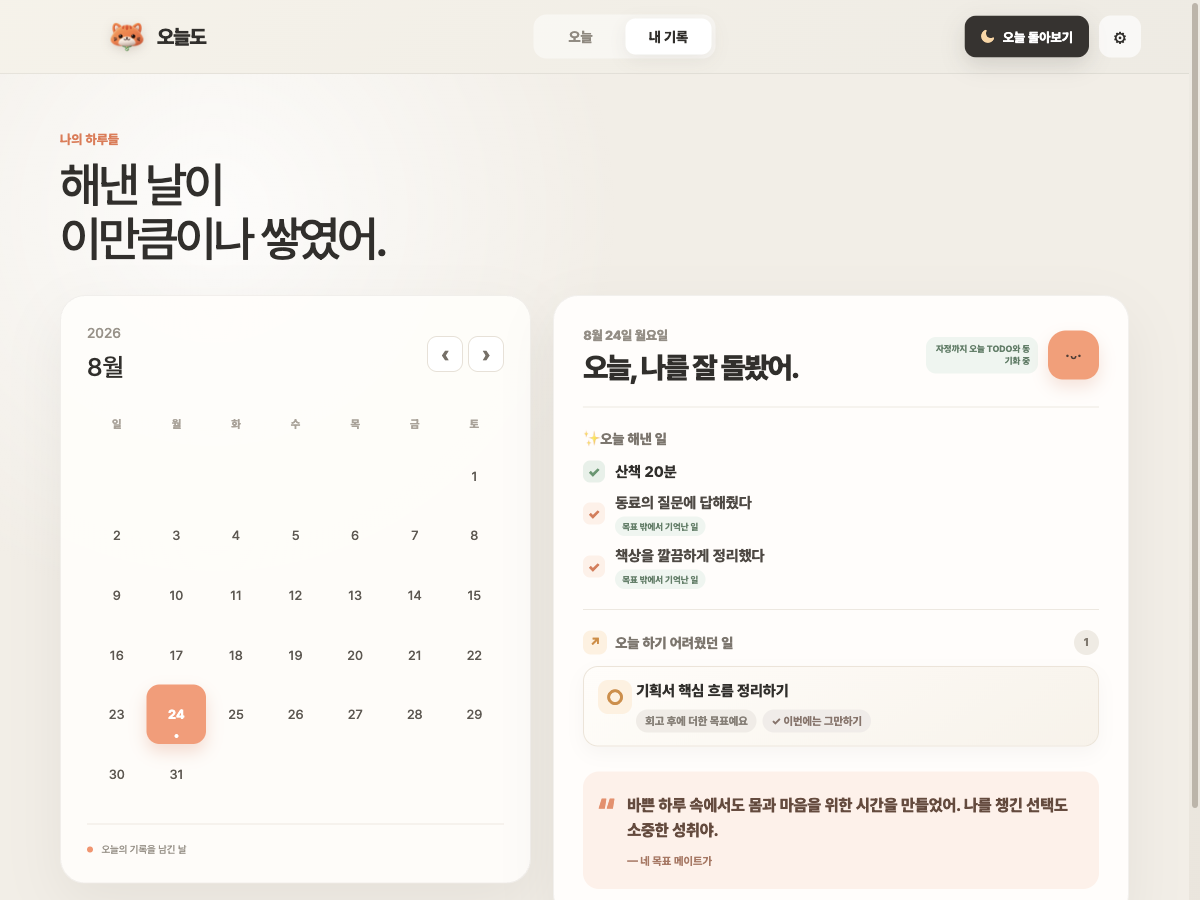
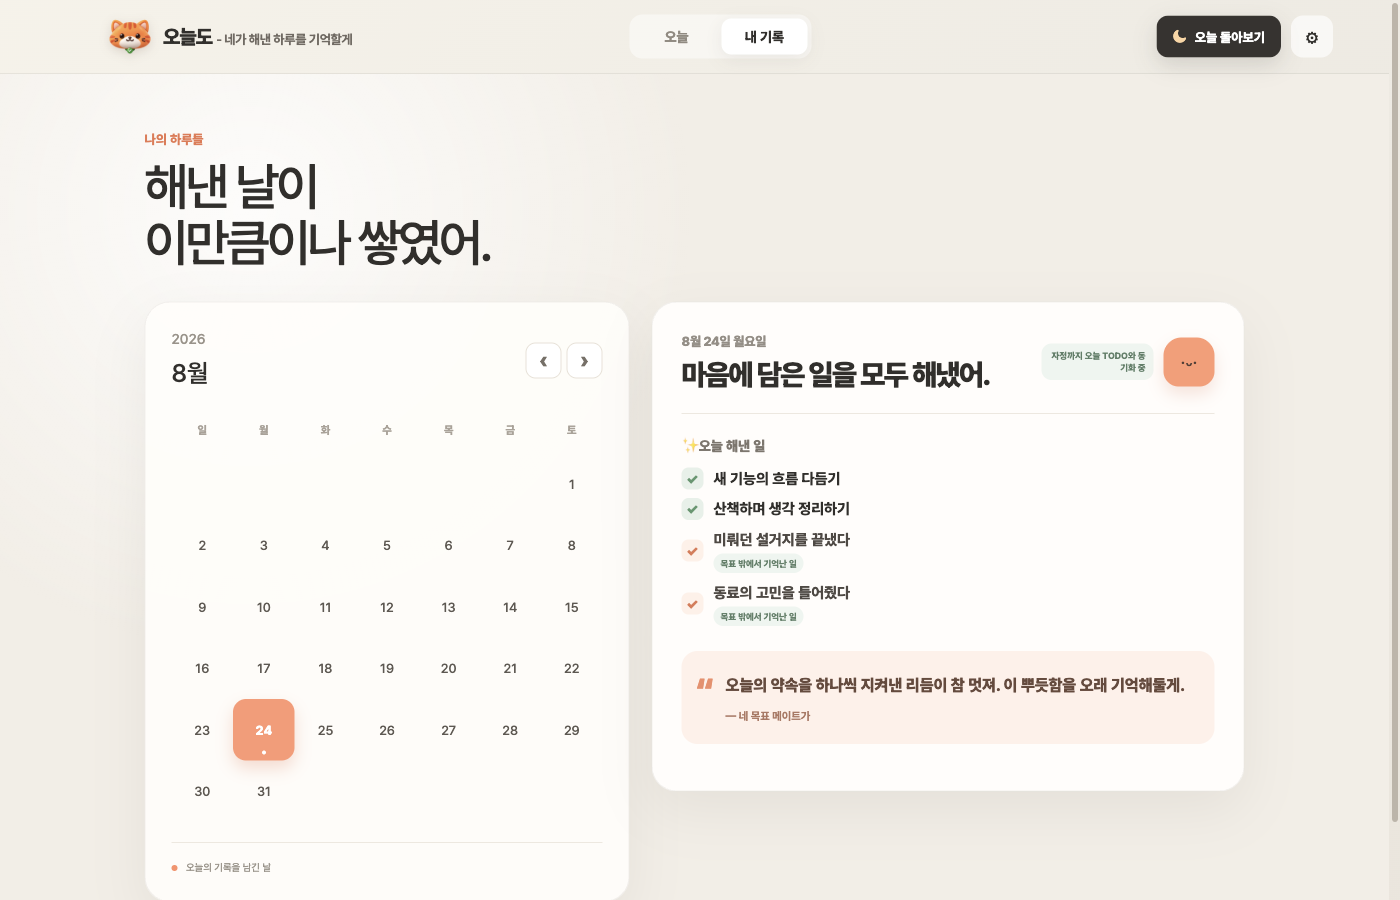
Polish app branding and bug reporting

diff --git a/app/globals.css b/app/globals.css
@@ -27,8 +27,9 @@ button:focus-visible,input:focus-visible,textarea:focus-visible { outline:3px so
 
 /* Global navigation */
 .topbar { height:74px; padding:0 clamp(22px,4vw,58px); display:grid; grid-template-columns:1fr auto 1fr; align-items:center; border-bottom:1px solid rgba(49,47,43,.08); position:relative; z-index:20; }
-.brand { border:0; padding:0; background:transparent; display:flex; align-items:center; gap:11px; justify-self:start; cursor:pointer; font-size:18px; font-weight:850; letter-spacing:-.05em; }
-.brand-image { display:block; width:34px; height:28px; background:url("/oneuldo-brand.png") center/contain no-repeat; filter:drop-shadow(0 3px 5px rgba(87,54,38,.16)); transition:transform .2s ease,filter .2s ease; }
+.brand { min-width:0; border:0; padding:0; background:transparent; display:flex; align-items:center; gap:11px; justify-self:start; cursor:pointer; font-size:18px; font-weight:850; letter-spacing:-.05em; white-space:nowrap; }
+.brand-image { display:block; flex:0 0 auto; width:42px; height:35px; background:url("/oneuldo-brand.png") center/contain no-repeat; filter:drop-shadow(0 3px 5px rgba(87,54,38,.16)); image-rendering:auto; transition:transform .2s ease,filter .2s ease; }
+.brand-copy{min-width:0;display:flex;align-items:baseline;letter-spacing:-.045em}.brand-copy strong{font:inherit}.brand-tagline{margin-left:8px;color:#716a62;font-size:13px;font-weight:690;letter-spacing:-.025em}
 .brand:hover .brand-image { transform:translateY(-1px) scale(1.04); filter:drop-shadow(0 5px 7px rgba(87,54,38,.2)); }
 .main-nav { height:42px; padding:4px; border-radius:13px; background:rgba(255,255,255,.47); display:flex; gap:2px; }
 .main-nav button { min-width:82px; border:0; border-radius:10px; background:transparent; color:#918a80; font-size:13px; font-weight:750; cursor:pointer; }
@@ -100,7 +101,7 @@ button:focus-visible,input:focus-visible,textarea:focus-visible { outline:3px so
 
 /* Settings */
 .modal-backdrop{position:fixed;inset:0;z-index:100;background:rgba(37,34,31,.34);display:grid;place-items:center;padding:20px;backdrop-filter:blur(5px);overscroll-behavior:contain}.settings-modal{width:min(540px,100%);max-height:calc(100vh - 40px);overflow:hidden;border:1px solid rgba(255,255,255,.55);border-radius:25px;background:#fffdf9;padding:0;box-shadow:0 30px 90px rgba(42,37,31,.24)}.settings-scroll{max-height:calc(100vh - 40px);overflow-x:hidden;overflow-y:auto;overscroll-behavior:contain;scrollbar-gutter:stable;padding:25px;scrollbar-width:thin;scrollbar-color:#c4baae #f5f0e8}.settings-scroll::-webkit-scrollbar{width:12px}.settings-scroll::-webkit-scrollbar-track{margin:18px 0;background:#f5f0e8;border-radius:99px}.settings-scroll::-webkit-scrollbar-thumb{min-height:48px;border:3px solid #f5f0e8;border-radius:99px;background:#b9afa3;background-clip:padding-box}.settings-scroll::-webkit-scrollbar-thumb:hover{background:#9f9488;background-clip:padding-box}.settings-scroll::-webkit-scrollbar-button{display:none}.modal-head{display:flex;align-items:start;justify-content:space-between;padding-bottom:20px}.modal-head p{margin:0 0 4px;color:var(--peach-dark);font-size:10px;font-weight:800}.modal-head h2{margin:0;font-size:26px;letter-spacing:-.05em}.modal-head .close-settings{position:relative;z-index:12;flex:0 0 52px;width:52px;height:52px;border:0;border-radius:0;padding:0;display:grid;place-items:center;background:transparent;color:#807970;font-size:22px;cursor:pointer;touch-action:manipulation;-webkit-app-region:no-drag}.close-settings>span{width:44px;height:44px;border-radius:13px;display:grid;place-items:center;background:#f1ede6;pointer-events:none;transition:background .16s,color .16s}.close-settings:hover>span{background:#e9e3da;color:#5f5952}.close-settings:focus-visible{outline:3px solid rgba(239,128,92,.22);outline-offset:1px}.setting-row{display:flex;align-items:center;justify-content:space-between;padding:17px 0;border-top:1px solid #eee8df}.setting-row>div,.toggle-row>div{display:grid;gap:4px}.setting-row strong,.setting-block>strong,.toggle-row strong{font-size:12px}.setting-row span,.toggle-row span{color:#9d968d;font-size:10px}.setting-row input{border:1px solid #ddd6cc;border-radius:10px;padding:9px 10px;background:#fff;font-size:12px}.setting-block{padding:17px 0;border-top:1px solid #eee8df}.setting-options{display:grid;grid-template-columns:repeat(3,1fr);gap:6px;margin-top:12px;padding:4px;border-radius:12px;background:#f2eee7}.setting-options button{border:0;border-radius:9px;padding:10px;background:transparent;color:#837c73;font-size:10px;font-weight:750;cursor:pointer}.setting-options button.selected{background:#fff;color:#d76d48;box-shadow:0 4px 12px rgba(70,59,46,.08)}.toggle-row{position:relative;display:flex;align-items:center;justify-content:space-between;padding:17px 0;border-top:1px solid #eee8df;cursor:pointer}.toggle-row input{position:absolute;opacity:0}.toggle-row>i{width:42px;height:24px;padding:3px;border-radius:99px;background:#d2ccc3;transition:.2s}.toggle-row>i:after{content:"";display:block;width:18px;height:18px;border-radius:50%;background:#fff;box-shadow:0 2px 6px rgba(0,0,0,.16);transition:.2s}.toggle-row input:checked+i{background:var(--sage)}.toggle-row input:checked+i:after{transform:translateX(18px)}.save-settings{width:100%;height:49px;margin-top:9px;border:0;border-radius:14px;background:#373430;color:#fff;font-size:12px;font-weight:800;cursor:pointer}
-.theme-options{display:grid;grid-template-columns:repeat(3,1fr);gap:7px;margin-top:12px}.theme-options>button{border:1px solid #e3dcd2;border-radius:12px;background:#fff;padding:10px;color:#7f776e;font-size:10px;font-weight:750;cursor:pointer;display:flex;align-items:center;justify-content:center;gap:7px}.theme-options>button.selected{border-color:#f09a79;background:#fff2ec;color:#d86e49;box-shadow:0 5px 14px rgba(81,63,50,.06)}.theme-swatch{width:12px;height:12px;border-radius:50%;background:#ff9870}.theme-swatch.sage{background:#88b49a}.theme-swatch.lavender{background:#a99bc8}.restart-guide{width:100%;height:41px;border:1px solid #e4ddd3;border-radius:12px;background:#faf7f1;color:#777067;font-size:10px;font-weight:750;cursor:pointer}.restart-guide:hover{background:#f2ede5}
+.theme-options{display:grid;grid-template-columns:repeat(3,1fr);gap:7px;margin-top:12px}.theme-options>button{border:1px solid #e3dcd2;border-radius:12px;background:#fff;padding:10px;color:#7f776e;font-size:10px;font-weight:750;cursor:pointer;display:flex;align-items:center;justify-content:center;gap:7px}.theme-options>button.selected{border-color:#f09a79;background:#fff2ec;color:#d86e49;box-shadow:0 5px 14px rgba(81,63,50,.06)}.theme-swatch{width:12px;height:12px;border-radius:50%;background:#ff9870}.theme-swatch.sage{background:#88b49a}.theme-swatch.lavender{background:#a99bc8}.restart-guide{width:100%;height:41px;border:1px solid #e4ddd3;border-radius:12px;background:#faf7f1;color:#777067;font-size:10px;font-weight:750;cursor:pointer}.restart-guide:hover{background:#f2ede5}.bug-report-link{min-height:54px;margin-top:8px;padding:9px 13px;border:1px solid #eadfd4;border-radius:14px;background:linear-gradient(135deg,#fffaf6,#fff2eb);color:#675e56;text-decoration:none;display:grid;grid-template-columns:34px 1fr auto;align-items:center;gap:10px;transition:transform .18s,border-color .18s,box-shadow .18s}.bug-report-link:hover{transform:translateY(-1px);border-color:#efb399;box-shadow:0 9px 22px rgba(104,72,55,.08)}.bug-report-icon{width:34px;height:34px;border-radius:11px;background:#ffe1d4;color:#dc704d;display:grid;place-items:center;font-size:17px;font-weight:900}.bug-report-link>span:nth-child(2){display:grid;gap:3px}.bug-report-link strong{font-size:11px;font-weight:850}.bug-report-link small{color:#91877d;font-size:9px;font-weight:620}.bug-report-link>b{color:#dc7755;font-size:16px}
 .mate-picker-block>span{display:block;margin-top:4px;color:#9d968d;font-size:10px}.mate-options{display:grid;grid-template-columns:repeat(4,1fr);gap:8px;margin-top:12px}.mate-options>button{position:relative;min-width:0;border:1px solid #e4ddd3;border-radius:15px;padding:7px 5px 9px;background:#fff;color:#70685f;display:grid;justify-items:center;gap:3px;cursor:pointer;transition:transform .18s,border-color .18s,background .18s,box-shadow .18s}.mate-options>button:hover{transform:translateY(-2px);box-shadow:0 9px 20px rgba(69,55,42,.08)}.mate-options>button.selected{border-color:#ee9574;background:#fff3ed;box-shadow:0 8px 20px rgba(215,104,67,.11)}.mate-option-art{width:72px;height:64px;display:block;background:center/contain no-repeat}.mate-options b{font-size:11px;font-weight:850}.mate-options i{position:absolute;right:7px;top:7px;width:18px;height:18px;border-radius:50%;background:#ed805c;color:transparent;font-size:0;box-shadow:0 3px 8px rgba(195,91,55,.22)}.mate-options i:after{content:"✓";color:white;font-size:11px;font-style:normal;font-weight:900;display:grid;place-items:center;width:100%;height:100%}
 .app-info{margin-top:18px;padding:17px 4px 2px;border-top:1px solid #ece5db;display:flex;align-items:end;justify-content:space-between;gap:18px;color:#9a9187}.app-info>div{display:grid;gap:3px}.app-info>div:last-child{text-align:right}.app-info strong{color:#70685f;font-size:11px;font-weight:850;letter-spacing:-.02em}.app-info small,.app-info span{font-size:9px;font-weight:650;line-height:1.35}.app-info small{color:#81786f}
 
@@ -169,3 +170,7 @@ button:focus-visible,input:focus-visible,textarea:focus-visible { outline:3px so
 .memory-card{min-height:390px;padding:24px 27px;display:flex;flex-direction:column;background:linear-gradient(155deg,#fffefa 0%,#fffaf5 58%,#f5f9f5 100%)}.memory-card-kind{display:flex;align-items:center;gap:11px}.memory-card-kind>span{width:42px;height:42px;border-radius:14px;background:#fff0e7;color:#e37952;display:grid;place-items:center;font-size:18px;font-weight:900}.memory-card-kind>div{display:grid;gap:3px}.memory-card-kind small{color:#d47756;font-size:11px;font-weight:900}.memory-card-kind strong{color:#4b4540;font-size:13px;font-weight:820}.memory-card-copy{padding:19px 20px 13px;text-align:center}.memory-card-copy>span{font-size:27px}.memory-card-copy h2{margin:7px 0 6px;color:#332f2b;font-size:27px;font-weight:860;line-height:1.22;letter-spacing:-.055em}.memory-card-copy p{margin:0;color:#8c847a;font-size:11px;font-weight:620;line-height:1.55}.memory-form{display:grid;grid-template-columns:1fr 86px;gap:7px}.memory-form input{min-width:0;height:43px;border:1px solid #ded6cb;border-radius:13px;padding:0 13px;background:#fff;color:#393530;font:inherit;font-size:12px;font-weight:650;outline:0;transition:border-color .18s,box-shadow .18s}.memory-form input:focus{border-color:#ef9a79;box-shadow:0 0 0 4px rgba(239,141,104,.1)}.memory-form button{border:0;border-radius:12px;background:#ea825d;color:#fff;font-size:11px;font-weight:850;cursor:pointer}.memory-form button:disabled{background:#ded8cf;color:#aaa198;cursor:not-allowed}.remembered-list{max-height:72px;margin-top:8px;overflow:auto;display:flex;flex-wrap:wrap;align-content:flex-start;gap:6px}.remembered-list>span{min-width:0;height:30px;padding:0 5px 0 8px;border:1px solid #cfe0d3;border-radius:99px;background:#f0f7f1;color:#537562;display:flex;align-items:center;gap:6px;font-size:10px;font-weight:780}.remembered-list i{font-style:normal;color:#68a079;font-weight:900}.remembered-list button{width:22px;height:22px;border:0;border-radius:50%;background:transparent;color:#8c9b90;font-size:14px;cursor:pointer}.remembered-list button:hover{background:#dceade;color:#52705d}.finish-memory{height:42px;margin-top:auto;border:1px solid #ded7cc;border-radius:13px;background:#fff;color:#746c63;display:flex;align-items:center;justify-content:center;gap:18px;font-size:11px;font-weight:820;cursor:pointer}.finish-memory:hover{border-color:#c9dbce;background:#f5faf6;color:#547260}.finish-memory b{color:#e58360;font-size:16px}.record-section li>div{min-width:0;display:grid;gap:3px}.record-section li>div>strong{font:inherit}.record-section li>div>small{width:max-content;padding:3px 7px;border-radius:99px;background:#edf5ef;color:#5d8068;font-size:9px;font-weight:780}.record-section li.remembered-done>span{background:#fff0e8;color:#e07953}.record-section li.remembered-done>div>strong{color:#4f4943}
 
 @media (max-width:700px){.memory-card{min-height:418px;padding:20px 17px}.memory-card-copy{padding:21px 8px 15px}.memory-card-copy h2{font-size:24px}.memory-form{grid-template-columns:1fr 78px}.memory-card-kind small{font-size:10px}.memory-card-kind strong{font-size:12px}}
+
+/* Retina header brand and responsive full product name. */
+.brand-image{width:44px;height:36px}.bug-report-link strong{font-size:12px}.bug-report-link small{font-size:10px}
+@media (max-width:1080px){.brand-tagline{display:none}}

diff --git a/app/page.tsx b/app/page.tsx
@@ -124,7 +124,8 @@ const goalAwareMateCheers = (goals: Goal[]) => {
     doneGoal && `“${doneGoal.title}”까지 해낸 오늘의 너, 정말 멋져.`,
   ].filter((message): message is string => Boolean(message));
 };
-const APP_VERSION = "1.17.0";
+const APP_VERSION = "1.18.0";
+const BUG_REPORT_URL = "https://github.com/noeyhoj/oneuldo/issues/new?template=bug_report.yml";
 
 const initialSettings: Settings = { morning: "09:00", evening: "18:00", cheer: "가끔", character: true, theme: "coral", animal: "cat" };
 
@@ -370,9 +371,9 @@ export default function Home() {
   return (
     <main className={`app-shell theme-${settings.theme}`}>
       <header className="topbar">
-        <button className="brand" type="button" onClick={() => setView("today")} aria-label="오늘도 홈">
+        <button className="brand" type="button" onClick={() => setView("today")} aria-label="오늘도 - 네가 해낸 하루를 기억할게, 홈">
           <span className="brand-image" aria-hidden="true" />
-          <span>오늘도</span>
+          <span className="brand-copy"><strong>오늘도</strong><span className="brand-tagline"> - 네가 해낸 하루를 기억할게</span></span>
         </button>
         <nav className="main-nav" aria-label="주요 메뉴">
           <button className={view === "today" ? "active" : ""} onClick={() => setView("today")} type="button">오늘</button>
@@ -711,6 +712,11 @@ function SettingsModal({ settings, onChange, onClose, onRestartGuide }: { settin
         </div>
         <div className="toggle-row"><div><strong>목표 메이트 표시</strong><span>데스크톱 한쪽에서 기다릴게.</span></div><input aria-label="목표 메이트 표시" type="checkbox" checked={settings.character} onChange={(event) => onChange({ ...settings, character: event.target.checked })} /><i /></div>
         <button className="restart-guide" type="button" onClick={onRestartGuide}>✦ &nbsp;첫 시작 가이드 다시 보기</button>
+        <a className="bug-report-link" href={BUG_REPORT_URL} target="_blank" rel="noreferrer">
+          <span className="bug-report-icon" aria-hidden="true">✺</span>
+          <span><strong>버그 제보하기</strong><small>불편한 점을 알려주면 더 다정하게 고칠게요.</small></span>
+          <b aria-hidden="true">↗</b>
+        </a>
         <button className="save-settings" type="button" onClick={onClose}>이대로 함께하기</button>
         <footer className="app-info" aria-label="앱 정보">
           <div><strong>오늘도</strong><span>데스크톱 목표 메이트</span></div>

diff --git a/electron/native-menubar.swift b/electron/native-menubar.swift
@@ -172,7 +172,7 @@ final class OneuldoMenuBarDelegate: NSObject, NSApplicationDelegate {
 
     private func makeMenu(_ state: MenuBarState = MenuBarState()) -> NSMenu {
         let menu = NSMenu(title: "오늘도")
-        let heading = NSMenuItem(title: "오늘도 — 네가 해낸 하루를 기억할게", action: nil, keyEquivalent: "")
+        let heading = NSMenuItem(title: "오늘도 - 네가 해낸 하루를 기억할게", action: nil, keyEquivalent: "")
         heading.isEnabled = false
         heading.image = makeCatIcon()
         menu.addItem(heading)

diff --git a/app/layout.tsx b/app/layout.tsx
@@ -8,7 +8,7 @@ const geistSans = Geist({
 });
 
 export const metadata: Metadata = {
-  title: "오늘도 — 네가 해낸 하루를 기억할게",
+  title: "오늘도 - 네가 해낸 하루를 기억할게",
   description: "하지 못한 것보다 해낸 것을 먼저 기억해주는 데스크톱 목표 메이트.",
   openGraph: {
     title: "오늘도 꽤 잘했어.",

diff --git a/electron/mate.css b/electron/mate.css
@@ -33,7 +33,7 @@ button { font: inherit; color: inherit; -webkit-app-region: no-drag; }
   padding: 14px 16px;
   text-align: left;
   background: rgba(255, 255, 255, .97);
-  box-shadow: 0 13px 34px rgba(57, 47, 38, .2);
+  box-shadow: none;
   display: grid;
   gap: 3px;
   cursor: pointer;

diff --git a/README.md b/README.md
@@ -57,22 +57,28 @@
 - 목표 밖에서 기억난 일은 별도 표시
 - 목표 미작성과 회고 대기 상태를 메뉴 막대 아이콘의 서로 다른 점으로 표시
 - 앱을 열지 않고도 메뉴 막대에서 오늘 화면, 회고, 기록, 설정으로 이동
+- 설정의 `버그 제보하기`에서 GitHub 제보 양식으로 바로 이동
 
 ## 화면
 
 <table>
   <tr>
     <td width="50%"><img src="docs/images/remember-more.png" alt="목표 밖에서 기억난 일 추가 화면" /></td>
-    <td width="50%"><img src="docs/images/records.png" alt="오늘도 캘린더 기록 화면" /></td>
+    <td width="50%"><img src="docs/images/settings.png" alt="목표 메이트와 버그 제보가 보이는 설정 화면" /></td>
   </tr>
   <tr>
     <td align="center"><strong>목표 밖의 성취도 기록</strong></td>
-    <td align="center"><strong>다정하게 쌓이는 하루 기록</strong></td>
+    <td align="center"><strong>메이트 선택과 쉬운 버그 제보</strong></td>
   </tr>
 </table>
 
+![오늘도 캘린더 기록 화면](docs/images/records.png)
+
+<p align="center"><strong>다정하게 쌓이는 하루 기록</strong></p>
+
 <p align="center">
-  <img src="docs/images/companion.png" width="360" alt="실제 목표를 언급하는 오늘도 목표 메이트" />
+  <img src="docs/images/companion.png" width="390" alt="데스크톱 위의 오늘도 목표 메이트" /><br />
+  <strong>필요한 순간만 다정하게 말을 건네는 목표 메이트</strong>
 </p>
 
 ## 다운로드
